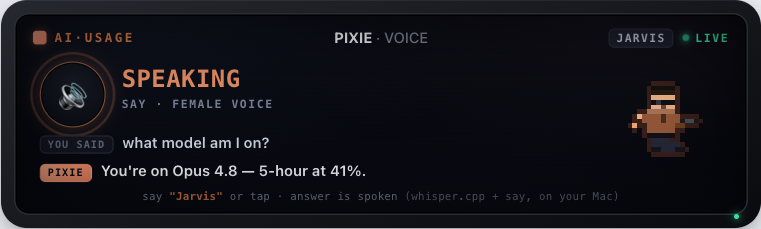
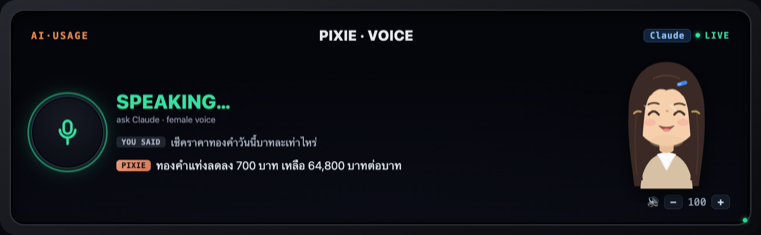
docs: Pixie mascot redesign preview + assistant-platform roadmap
- screen-voice.png preview → the new Pixie (glasses assistant) replacing the pixel runner; on-device sprite (mascot.c/mockup.html) is the follow-up
- roadmap spec: tool-calling assistant platform (Mac control by voice, email + calendar both backends, Discord info-only), one brain across voice + Discord, consent layer
- README roadmap updated to match

Claude-Session: https://claude.ai/code/session_013JajJ8cNuGPKZuZyC9RytH

diff --git a/docs/superpowers/specs/2026-07-24-pixie-assistant-platform-roadmap.md b/docs/superpowers/specs/2026-07-24-pixie-assistant-platform-roadmap.md
@@ -1,0 +1,127 @@
+# Pixie Assistant Platform — Roadmap & Architecture
+
+**Date:** 2026-07-24
+**Status:** Design approved (brainstorm). Foundation + Phase 1 to be spec'd into an implementation plan when built.
+**Branch context:** builds on `feat/voice-firmware` (voice pipeline shipped: on-device `/voice`, whisper **medium** STT, `say` TTS, web search).
+
+---
+
+## Vision
+
+Turn **Pixie** from a voice Q&A toy into a **real AI assistant that does things** — open apps, check email, know your meetings, live in a team chat — while staying true to the giveaway spirit (free, local-first, token-gated, private).
+
+The whole feature list the user wants — "open YouTube on the Mac", "check my mail", "join my meeting", "be in our Discord" — is **one idea**: give Pixie's brain a set of **tools it can call**. Web search (already shipped) is the proof: the model decides to use a tool, the bridge runs it, Pixie speaks the result.
+
+---
+
+## Architecture — one tool-calling core, many surfaces
+
+Evolve the bridge's `askClaude` from a **one-shot** call into an **agentic tool loop**:
+
+```
+  speak / type
+       │
+       ▼
+  ┌─────────────────────────── Pixie brain (bridge) ───────────────────────────┐
+  │  askAgent(prompt, tools)                                                     │
+  │   → Claude picks a tool  → bridge executes it → feeds result back → repeat   │
+  │                          → Claude writes the spoken/typed answer            │
+  └─────────────────────────────────────────────────────────────────────────────┘
+       ▲                                   │
+       │ tool call                         │ answer
+  ┌────┴─────┐  ┌──────────┐  ┌──────────┐ │
+  │ Mac      │  │ email    │  │ calendar │ …  ← tool registry (add capabilities one at a time)
+  │ actions  │  │ (mail/   │  │ (mac/    │
+  │ (exists) │  │  gmail)  │  │  gcal)   │
+  └──────────┘  └──────────┘  └──────────┘
+
+  Surfaces that share this one brain:
+    • /voice   (ESP32 screen ④ — tap-to-talk, later wake word)
+    • Discord  (bot in a channel — text)
+```
+
+**Three load-bearing ideas:**
+
+1. **Capability = tool.** Each capability is a tool (JSON schema) + an executor. Adding a feature = adding a tool, not rewriting the loop.
+   - **Server-side tools** run on Anthropic's side (web search — done).
+   - **Client-side tools** the bridge executes. **Mac control reuses what already exists:** `bridge/lib/actions.mjs` `validateAction` + the `open`/`osascript`/`shortcuts` executor, and the `actions.json` allowlist (`urls` / `apps` / `shortcuts`). Screen ③ already drives these over `/action`; voice just gives Claude the same actions as tools.
+
+2. **One brain, many surfaces.** The same `askAgent` loop serves `/voice` (ESP32) **and** a Discord bot. A new surface is an input/output adapter, not new logic.
+
+3. **Consent layer.** Tools are tagged by risk:
+   - **read-only / low-risk** (check email, next meeting, open an allowlisted app) → run immediately, Pixie narrates.
+   - **state-changing / outward-facing** (send an email, join a meeting, run a shortcut) → Pixie **confirms first** ("จะส่งเมลหา… นะ ยืนยันไหม") before executing.
+   - Config-driven per tool so the giveaway default is safe.
+
+---
+
+## Roadmap (build order)
+
+Ordered as the user set it. The tool-calling **assistant platform is the final, most ambitious block** — it lands *after* the wake word and the provider switcher.
+
+| # | Item | Status |
+|---|------|--------|
+| 0a | **Thai STT accuracy** — whisper `base` → **`medium`** | ✅ shipped 2026-07-24 |
+| 0b | **Web search** — server-side `web_search` tool in `askClaude` (live prices/weather/news) | ✅ shipped 2026-07-24 |
+| 0c | **Mascot redesign** — pixel runner → cute glasses "secretary" Pixie (see below) | 🎨 design approved, sprite TODO |
+| 1 | **Wake word "Pixie"** — `wake.h` microWakeWord/TFLite-Micro; keep tap-to-talk as the reliable default | ⏳ next firmware task |
+| 2 | **Provider / model switch** — pick the brain per query (Claude / Codex / Gemini / …), AI-settings on screen ④ (`voice-providers.mjs` scaffolding exists) | 📋 planned |
+| 3 | **AI CONTROL — the tool-calling assistant platform** *(the last, biggest block)* | 📋 designed, this doc |
+
+### Phase 3 breaks down into capability tools
+
+Built in this order once the platform core lands:
+
+- **3.0 · Agent core** — `askAgent` tool loop + tool registry + consent tagging. Prerequisite for everything below. Reuses `lib/actions.mjs` for the first tools.
+- **3.1 · Mac control by voice** — tools `open_app` / `open_url` / `media` / `volume` / `lock` / `shortcut` (all already have executors). *"เปิด YouTube"* → Claude calls `open_url(youtube.com)` → Safari opens → Pixie confirms. Low-risk ones immediate; `shortcut` behind consent.
+- **3.2 · Awareness (read-only)** — `check_email` (summarise unread), `next_meeting` / `today_agenda`. **Two backends, user picks:** macOS **Mail/Calendar via AppleScript** (local, no cloud auth, giveaway-friendly) **and** **Google Gmail + Calendar** (richer; OAuth/MCP). Same tool schema, swappable executor.
+- **3.3 · Action (needs consent)** — `reply_email` / `send_email`, `join_meeting` (open the Zoom/Meet link, optionally at the right time), `set_reminder`. All gated by the confirm step.
+- **3.4 · Discord surface** — a bot (discord.js, hosted by the bridge/Mac) in a team channel → same brain + tools → replies in-channel. **Guardrail: Discord gets an info/chat tool subset ONLY — it must NOT be able to control the Mac from a group chat.** Decide respond-on-mention vs respond-to-all; keep the work channel's privacy in mind.
+
+---
+
+## Email / Calendar — support both backends
+
+The user chose **both**. Design so the tool schema is backend-agnostic and the executor is selectable (config: `PIXIE_MAIL_BACKEND = mac | google`):
+
+| Backend | How | Pros | Cons |
+|---|---|---|---|
+| **macOS Mail / Calendar** | AppleScript via `osascript` (same machinery as screen ③) | local, no cloud auth, private, giveaway-friendly | tied to the accounts set up on that Mac |
+| **Google (Gmail + Calendar)** | Gmail + Google Calendar (OAuth, or the MCP servers already connected in-session) | works with the user's real work accounts; richer | needs per-user auth |
+
+Default to **mac** for a giveaway unit; let a power user switch to **google**.
+
+---
+
+## Mascot redesign (Phase 0c) — cute glasses assistant
+
+Replace the pixel "runner" (Arnold/T-800, the current `mascot.c` default) on **screen ④** with a character that fits the name **Pixie**: a cute glasses-wearing girl assistant.
+
+- **Direction chosen: "A" (locked)** — long dark centre-part hair, **round thin gold-frame glasses**, a **blue hair clip**, camel cardigan over a white blouse, sweet smile. Inspired by a user reference (K-pop-with-glasses vibe); **Pixie stays an original cartoon — capture the vibe, not a real person's likeness.**
+- **Four faces** wired to the voice states: `idle` (soft smile) · `listening` (wide attentive eyes) · `thinking` (eyes up + "…") · `speaking` (happy eyes + open mouth).
+- **On-device target:** the mascot canvas is **120×120 RGB565** at pos (512,28), drawn by `mascot_render(buf, 120, 120, kind, fur, mood, t, bg565)` in `mascot.c`, and **recolours per provider** via `fur`. Implementation = a pixel sprite (or primitive redraw) matching the approved concept, with `mood` → the four faces.
+- Concept mockup: published Artifact "Pixie mascot concepts" (3 directions + the 4 states + an on-device panel). Source: `design/` (mockup HTML in scratchpad during design).
+
+---
+
+## Non-goals / YAGNI (for now)
+
+- No cloud STT/TTS — stays local (`whisper.cpp` + macOS `say`).
+- No Discord→Mac control (security).
+- No auto-typing the macOS login password (rejected earlier; unsafe on a giveaway).
+- Don't pre-write full implementation plans for every phase — each phase gets its own spec → plan → build cycle when it starts. This doc is the roadmap + the Phase-3 architecture.
+
+---
+
+## Decisions locked (this brainstorm)
+
+- ✅ Architecture = tool-calling agent core, capability = tool, one brain across voice + Discord.
+- ✅ Consent layer: read-only immediate, state-changing/outward = confirm.
+- ✅ Email/Calendar = support **both** macOS (AppleScript) and Google.
+- ✅ Discord = info/chat only, never Mac control.
+- ✅ Roadmap order: … → wake "Pixie" → provider/model switch → **AI-control assistant platform (last)**.
+- ✅ Mascot = direction A (glasses secretary), original character.
+
+## Next step
+
+When Phase 3.0 starts: run `writing-plans` on the **agent core + Phase 3.1 (Mac control by voice)** as the first buildable slice, then build → verify on-device with the user.

diff --git a/README.md b/README.md
@@ -270,14 +270,19 @@ off" only takes effect on battery.
   typing its IP), and a TF-card config file — so switching between locations
   needs no re-typing at all.
 - **Bluetooth (BLE) transport** *(planned)* — a wireless, network-free link to the Mac.
-- **Voice AI assistant — "Pixie"** *(Phase 1 in progress)* — say **"Jarvis"** or tap → ask → Pixie
-  speaks Claude's answer, with STT + TTS free + local on your Mac. The board's dual-mic array + audio
-  codec (ES7210 ADC / ES8311 DAC + speaker header) do the ears + mouth. The assistant then grows:
-  - **"Pixie" custom wake word** — Phase 1 ships on the stock, offline **"Jarvis"** WakeNet word first;
-    the brand-matching **"Pixie"** wake word needs a custom model (a fast-follow).
-  - **Multi-provider (GPT / Gemini / Kimi) + an AI-settings screen ④** — pick the brain per query.
-  - **Voice control** — "lock my Mac", "switch to Codex" — drive the device + Mac by voice.
-  - **Proactive spoken announcements** — usage / reset alerts Pixie says out loud.
+- **Voice AI assistant — "Pixie"** *(working — tap to talk)* — tap the mic → ask → Pixie speaks
+  Claude's answer, with STT + TTS free + local on your Mac (whisper **`medium`** for accurate Thai,
+  macOS `say` for a female voice). The board's dual-mic array + audio codec (ES7210 ADC / ES8311 DAC
+  + speaker) are the ears + mouth. **Live web answers are on** — ask for today's gold price or the
+  weather and Pixie searches the web before she answers. From here she grows into a real assistant:
+  - **A new face** — Pixie becomes a cute glasses-wearing assistant on screen ④, replacing the pixel
+    runner *(design done; on-device sprite in progress)*.
+  - **"Pixie" wake word** — call her name hands-free; tap-to-talk stays as the reliable default.
+  - **Provider / model switch** — pick the brain per query (Claude / Codex / Gemini) from screen ④.
+  - **A real assistant — tool-calling** *(the big one)* — give Pixie tools so she *does* things: open
+    apps on the Mac by voice, check your mail, know your next meeting, even live in a team Discord.
+    Read-only actions run right away; anything that changes things or sends outward asks first. See
+    [`docs/superpowers/specs/2026-07-24-pixie-assistant-platform-roadmap.md`](docs/superpowers/specs/2026-07-24-pixie-assistant-platform-roadmap.md).
 
 ## Privacy
 